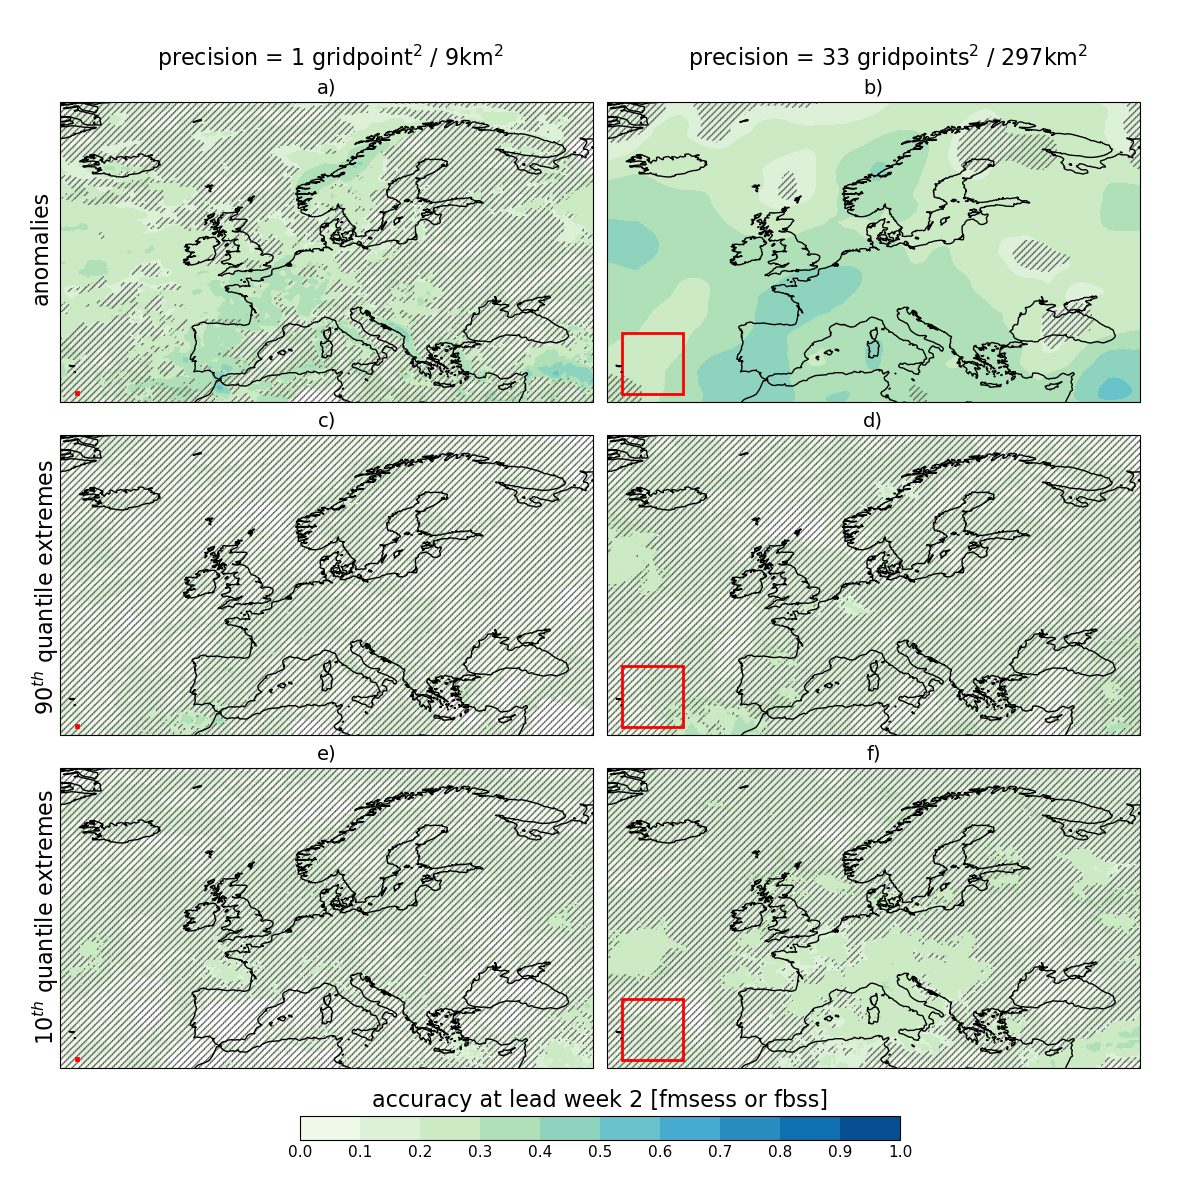
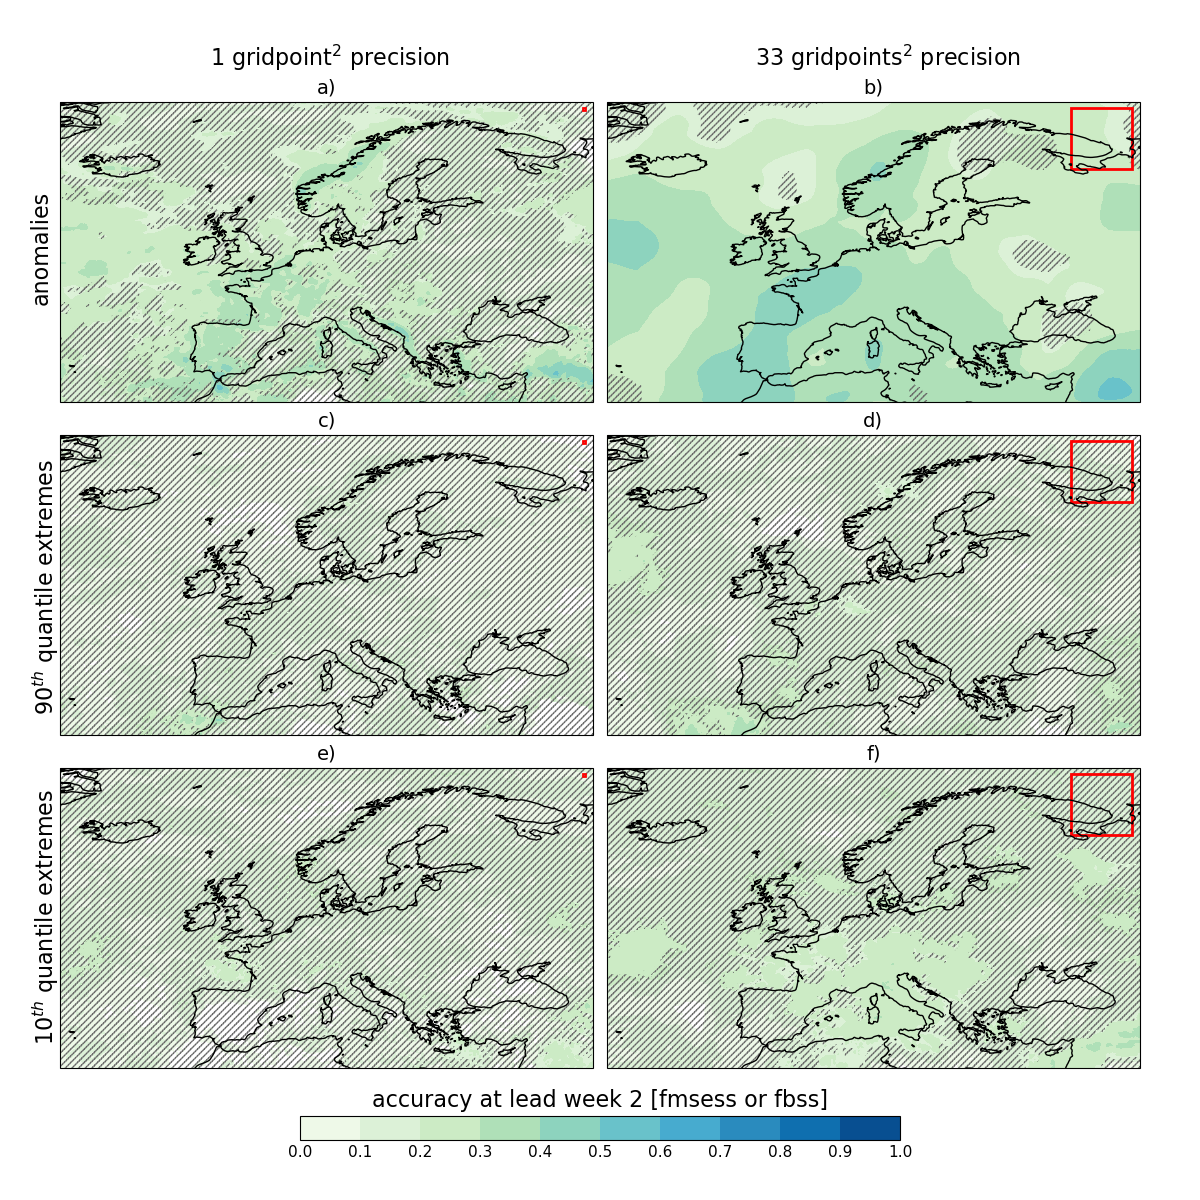
update

diff --git a/code/plot/plot-fig-04.py b/code/plot/plot-fig-04.py
@@ -23,9 +23,10 @@ def setup_subplot_xy(flag, ax, ds, clevs, cmap, fontsize):
     ax.coastlines(color='k',linewidth=1)
     
     if (flag == 1) or (flag == 3) or (flag == 5):
-        rectangle = plt.Rectangle((-25, 34), 0.25, 0.25, fc='r',ec='r',lw=2)
-    elif (flag == 2) or (flag == 4) or (flag == 6):
-        rectangle = plt.Rectangle((-25, 34), 8.25, 8.25, fc=(0.5,0.5,0.5,0),ec='r',lw=2)    
+        rectangle_length = 0.25
+    else:
+        rectangle_length = 0.25*33
+    rectangle = plt.Rectangle((44, 72.75), rectangle_length, rectangle_length, angle=180, fc=(0.5,0.5,0.5,0),ec='r',lw=2)
     ax.add_patch(rectangle)
     
     return p
@@ -82,8 +83,8 @@ ax[3].set_title('d)',fontsize=fontsize+3)
 ax[4].set_title('e)',fontsize=fontsize+3)
 ax[5].set_title('f)',fontsize=fontsize+3)
 
-fig.text(0.275,0.945,'precision = 1 gridpoint$^{2}$ / 9km$^{2}$',horizontalalignment='center',fontsize=fontsize+5)
-fig.text(0.74,0.945,'precision = 33 gridpoints$^{2}$ / 297km$^{2}$',horizontalalignment='center',fontsize=fontsize+5)
+fig.text(0.275,0.945,'1 gridpoint$^{2}$ precision',horizontalalignment='center',fontsize=fontsize+5)
+fig.text(0.74,0.945,'33 gridpoints$^{2}$ precision',horizontalalignment='center',fontsize=fontsize+5)
 fig.text(0.025,0.75,'anomalies',rotation=90,fontsize=fontsize+5)
 fig.text(0.025,0.41,'90$^{th}$ quantile extremes',rotation=90,fontsize=fontsize+5)
 fig.text(0.025,0.135,'10$^{th}$ quantile extremes',rotation=90,fontsize=fontsize+5)
